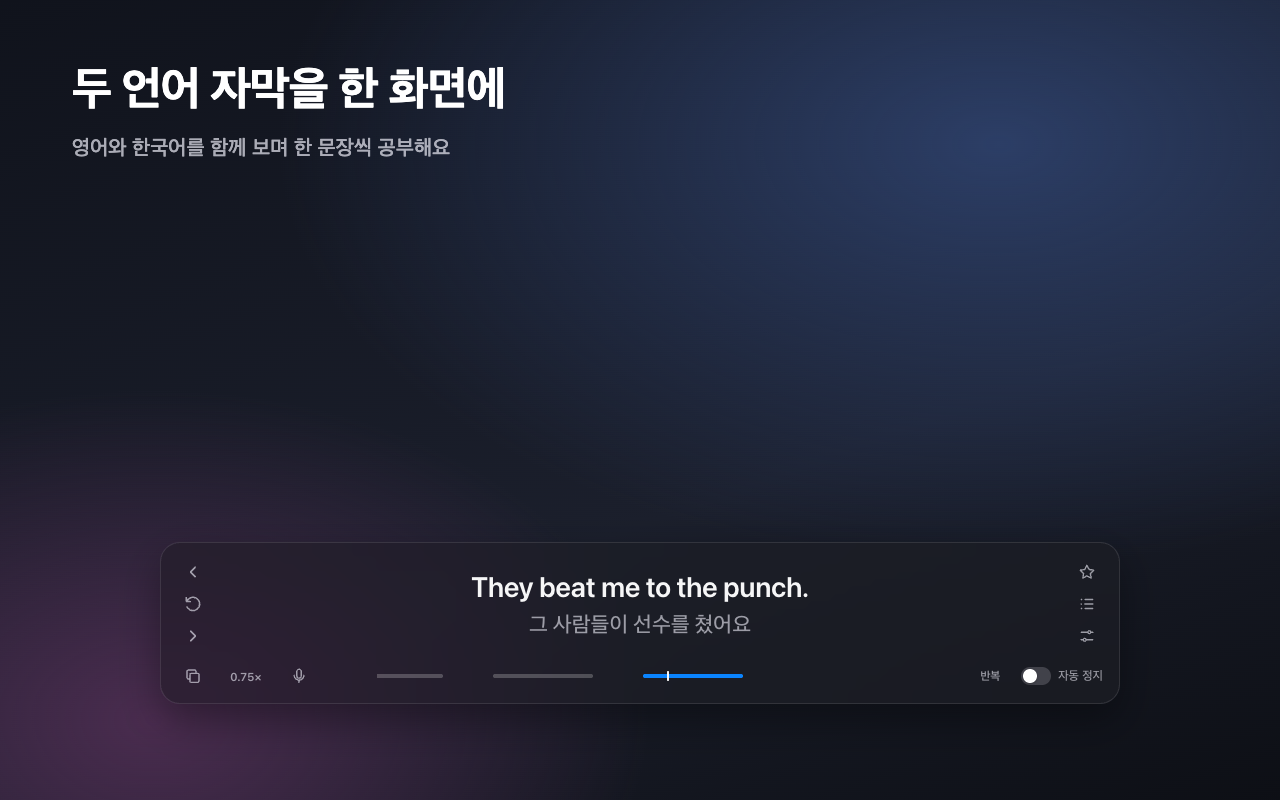
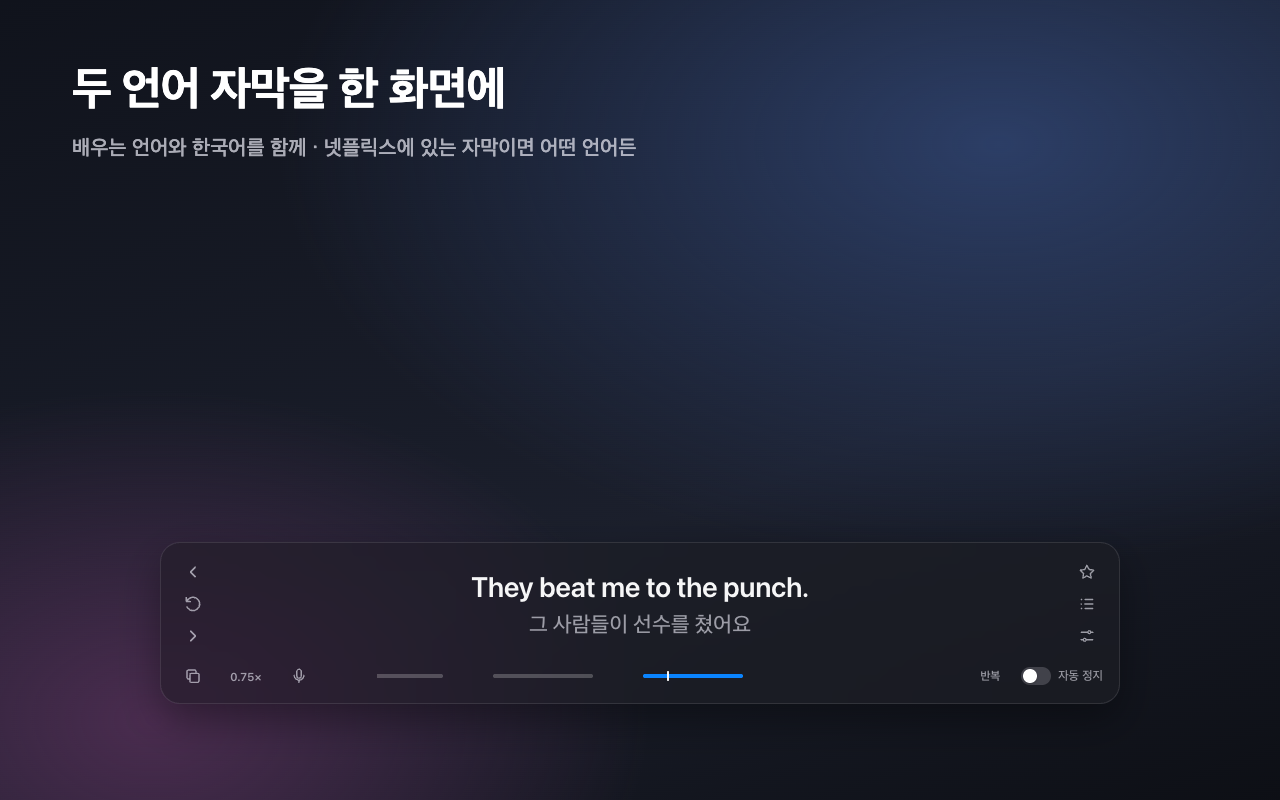
Position Shadowmate for any language, not only English
Any pair of Netflix subtitle languages works, so the summary, listing,
guide and store images now say so. Word lookup is noted as English-only.

Changed region(s): [[0.0625, 0.1562, 0.5, 0.2188]]

diff --git a/help.html b/help.html
@@ -62,7 +62,7 @@
   <h2>시작하기</h2>
   <div class="card">
     <ol>
-      <li>넷플릭스에서 아무 작품이나 재생하면 화면 아래에 패널이 떠요. 위 줄이 <em>원어</em>(예: 영어), 아래 줄이 <em>번역</em>(예: 한국어)이에요.</li>
+      <li>넷플릭스에서 아무 작품이나 재생하면 화면 아래에 패널이 떠요. 위 줄이 <em>원어</em>(배우는 언어, 예: 영어·일본어·스페인어), 아래 줄이 <em>번역</em>(예: 한국어)이에요.</li>
       <li>언어를 바꾸려면 패널 오른쪽의 설정 아이콘을 눌러 <em>원어 자막</em>과 <em>번역 자막</em>을 고르세요. 한 번 고르면 기억돼요.</li>
       <li>툴바의 퍼즐 조각 메뉴에서 Shadowmate를 고정해 두면 저장함과 이 사용법을 바로 열 수 있어요.</li>
     </ol>
@@ -121,7 +121,7 @@
     <div><b>저장</b><p>뜻 창의 별을 누르면 그 단어나 표현이 뜻·원래 문장·번역과 함께 저장돼요.</p></div>
     <div><b>닫기</b><p><kbd>Esc</kbd>를 누르거나, 바깥을 누르거나, 다음 문장으로 넘어가면 닫혀요.</p></div>
   </div>
-  <p class="note">뜻 찾기는 원어 자막이 영어일 때만 돼요.</p>
+  <p class="note">뜻 찾기는 지금은 원어 자막이 영어일 때만 돼요. 다른 언어도 반복·느리게·가리기·녹음 비교는 모두 똑같이 쓸 수 있어요.</p>
 
   <h2>저장함과 내보내기</h2>
   <div class="card">

diff --git a/store/listing.md b/store/listing.md
@@ -6,7 +6,7 @@
 
 - **이름**: manifest의 `name`이 그대로 쓰여요. `Shadowmate – 넷플릭스 이중 자막 쉐도잉`
 - **요약(132자 이내)**: manifest의 `description`이 그대로 쓰여요.
-  > 넷플릭스를 두 언어 자막으로 보며 영어 쉐도잉. 한 줄씩 듣기·반복·느리게 듣기, 자막 가리기, 단어 뜻, 내 발음 녹음 비교, Anki 내보내기.
+  > 넷플릭스를 두 언어 자막으로 보며 영어·일본어·스페인어 등 외국어 쉐도잉. 한 줄씩 듣기·반복·느리게 듣기, 자막 가리기, 내 발음 녹음 비교, 단어장.
 - **카테고리**: 교육
 - **언어**: 한국어
 - **개인정보처리방침 URL**: https://circle-commit.github.io/shadowmate/privacy.html
@@ -14,11 +14,11 @@
 
 ## 자세한 설명
 
-넷플릭스 영상 위에 영어와 한국어 자막을 함께 띄우고, 문장 단위로 듣고 따라 말하는 쉐도잉 공부를 도와주는 확장 프로그램이에요.
+넷플릭스 영상 위에 배우고 싶은 언어와 한국어 자막을 함께 띄우고, 문장 단위로 듣고 따라 말하는 쉐도잉 공부를 도와주는 확장 프로그램이에요. 영어든 일본어든 스페인어든, 넷플릭스에 자막이 있는 언어라면 무엇이든 공부할 수 있어요.
 
 ▶ 두 언어 자막
-· 위에는 원어(영어), 아래에는 번역(한국어)을 함께 보여 줘요
-· 넷플릭스에 있는 자막 언어라면 무엇이든 골라 짝지을 수 있어요
+· 위에는 배우는 언어, 아래에는 번역(한국어 등)을 함께 보여 줘요
+· 넷플릭스에 있는 자막 언어라면 무엇이든 골라 짝지을 수 있어요 (영어+한국어, 일본어+한국어, 스페인어+영어…)
 · 간단히 보기: 평소엔 자막만 애플 TV처럼 깔끔하게, 마우스를 올리면 버튼이 나와요
 
 ▶ 한 문장씩 쉐도잉
@@ -32,7 +32,7 @@
 · 따라 말한 걸 녹음하면 원어민 문장 → 내 목소리 순서로 바로 들려줘요
 · 녹음은 탭의 메모리에서만 쓰고 지워요. 어디에도 저장하거나 보내지 않아요
 
-▶ 단어·숙어 뜻
+▶ 단어·숙어 뜻 (영어 자막에서)
 · 단어를 누르면 영영 뜻(위키낱말사전)과 네이버 사전 링크
 · 여러 단어를 드래그하면 숙어도 찾아요 (beat me to the punch → beat someone to the punch)
 

diff --git a/README.md b/README.md
@@ -2,7 +2,7 @@
 
 (예전 이름: Shadowmate, Netflix DualSub)
 
-넷플릭스 영상 위에 두 언어 자막(예: 영어 + 한국어)을 함께 보여 주는 크롬 확장 프로그램.
+넷플릭스 영상 위에 두 언어 자막(예: 영어·일본어·스페인어 + 한국어)을 함께 보여 주고 문장 단위 쉐도잉을 돕는 크롬 확장 프로그램. 단어 뜻 찾기는 현재 영어 원어에서 동작합니다.
 
 ## 설치
 
